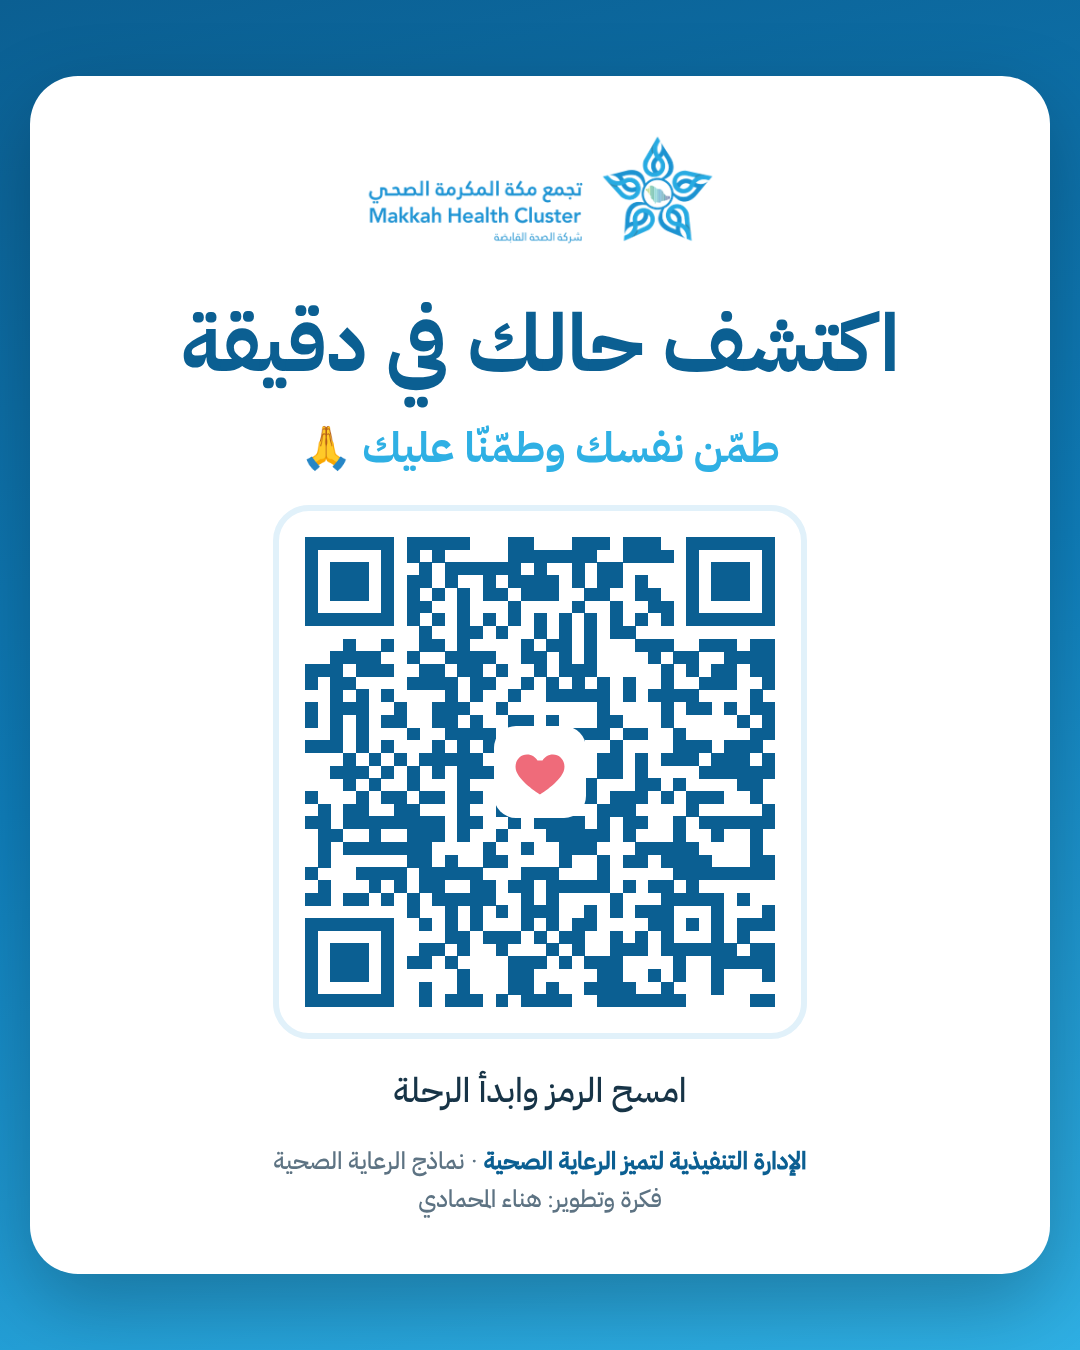
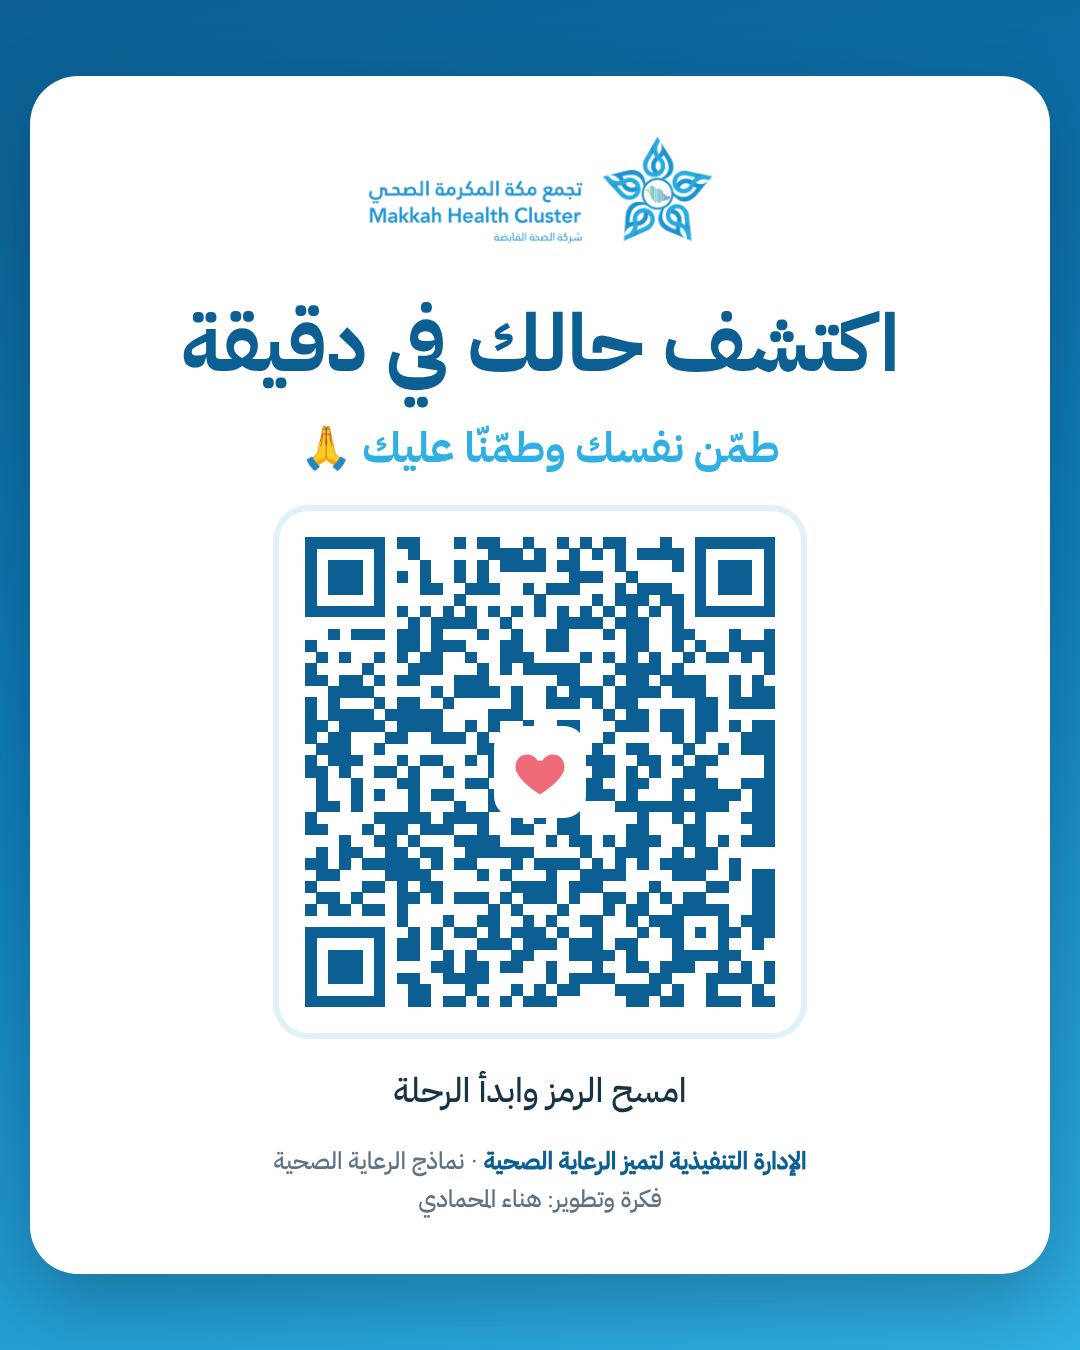
Rebuild QR for the renamed account's Pages link
Claude-Session: https://claude.ai/code/session_01THHuePMs8N5641qJWvVQvC

Changed region(s): [[0.275, 0.3733, 0.7333, 0.7467]]

diff --git a/README.md b/README.md
@@ -4,7 +4,7 @@
 
 لعبة تفاعلية قصيرة للفحص المبدئي للصحة النفسية. ترافق فيها الشخصية «طمّون» عبر أربع محطات (الشغف، المزاج، الهدوء، الأفكار)، وتجيب في كل محطة عن سؤال واحد من أداتي **PHQ-2** و**GAD-2**، ثم تظهر نتيجة الفحص ومسار التوجيه.
 
-- **رابط اللعبة:** https://hanihalsulami.github.io/My-game/
+- **رابط اللعبة:** https://healthcaresoftwaredeveloper.github.io/My-game/
 - نقطة القطع: درجة 3 فأكثر في أي من الأداتين = فحص إيجابي يستدعي تقييماً أشمل.
 - لا تُجمع أي بيانات شخصية، ولا تُحفظ الإجابات.
 - هذا فحص مبدئي وليس تشخيصاً.
